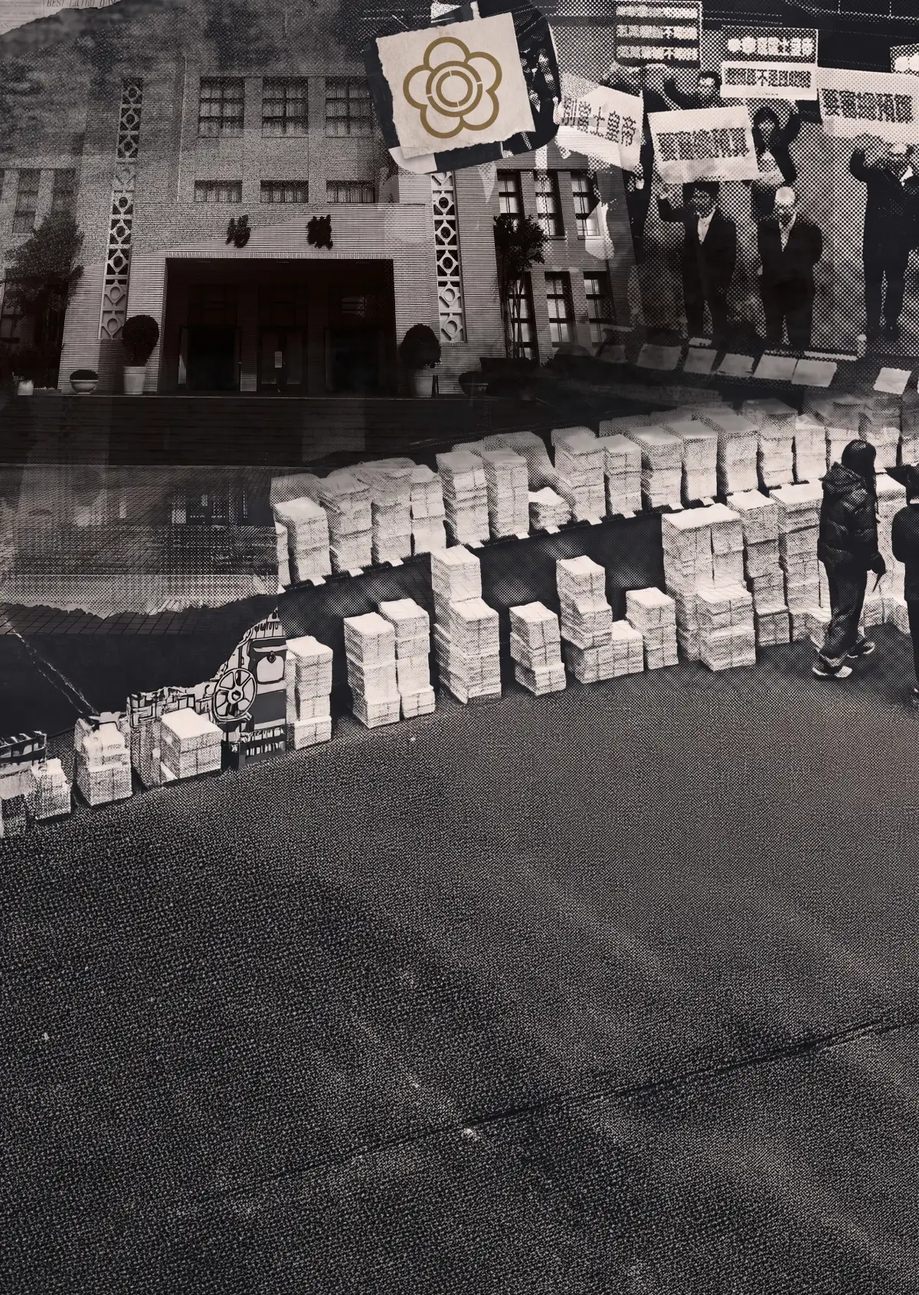
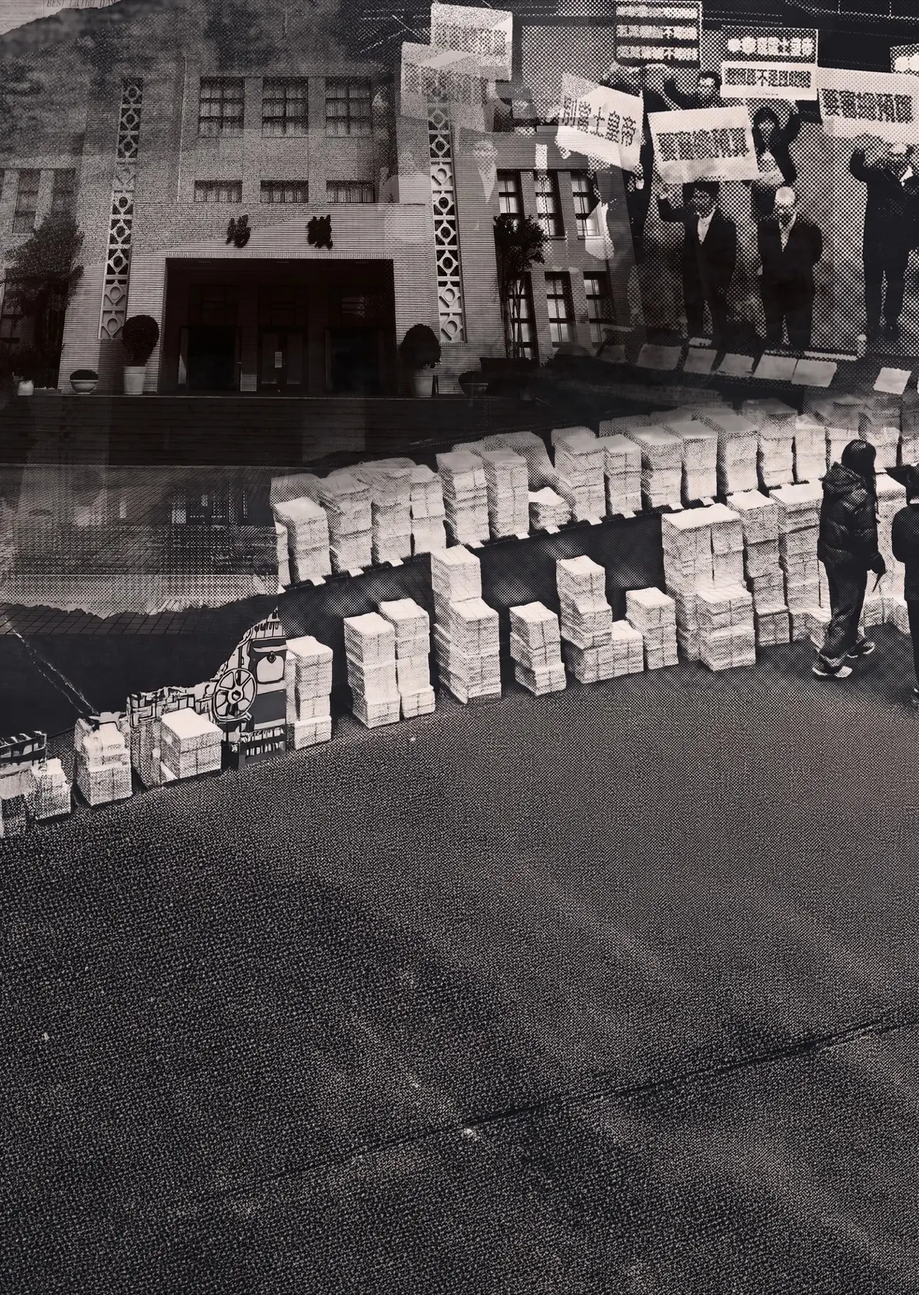
fix(index-v2): align chapter 3 mobile chart with its story cards
Chapter 3's scroll-linked bar chart ran a full step ahead of the text on
mobile, and the cards painted on top of the chart panel.

Root cause of the desync: updateChapter3Bars() measured
.gantt-card-rebuilt, but that wrapper carries padding-top of
(--site-header-h + 82dvh) to push its visible text into the reading zone
below the pinned band. The wrapper's top therefore sits ~82dvh above the
text the reader actually sees, so every step fired that much too early --
step 2 (red bar, 2992億) was showing while card 1 (3兆350億) was still
mid-screen. Mobile now measures the visible .story-card and triggers at
88dvh (band bottom 79dvh plus 9dvh of breathing room), so each card owns
exactly one chart step. The same measurement fix applies to card 5's exit
offset, which previously started pushing the chart away while card 5's
text was still below the fold.

Root cause of the overlap: percentage insets on a sticky element resolve
against the containing block, not the viewport. top:50% was copied from
chapter 2's fixed-position band (where 50% correctly means half a
viewport) onto chapter 3's sticky band, whose containing block is the
300svh+ section -- and sticky's top doubles as both the resting position
and the stick trigger, so both broke at once. Replaced with top:21dvh
((100dvh - 58dvh) / 2), which also removes the need for translateY(-50%);
without that lift the band never paints above its own flow position, so
[…]

diff --git a/115MoneyDemoB-main/index-v2.html b/115MoneyDemoB-main/index-v2.html
@@ -2664,8 +2664,26 @@
            的樣式。 */
         @media (max-width: 1024px) {
 
-            /* ---------- 第二章：甘特圖釘在頂部帶狀區（約 58dvh） ---------- */
+            /* ---------- 第二章：甘特圖釘在視窗垂直 50% 處 ----------
+               手機／平板改用與第三章 .gantt-sticky-box-rebuilt 相同的 position:sticky
+               機制（桌機版維持 position:fixed 的全螢幕背景疊層設計，此處不動）。
+               ⚠ 已改回 position:fixed（與桌機版一致）：改用 position:sticky 會讓瀏覽器
+               在章節捲動到底時「原生自動」把帶狀區跟著文件流一起滑走，這個原生滑走
+               動作跟 updateHistoryExit() 原本針對 fixed 元素設計、只靠 opacity 淡出的
+               收尾動畫同時發生、疊加在一起，導致第二章結尾感覺「收得太快」。第三章的
+               sticky 版本另外用 --ch3-exit-offset 這個 transform 專門馴服原生滑走時機，
+               第二章沒有這套機制，所以改回 fixed（原生完全沒有自動滑走行為）能讓收尾
+               動畫完全交回 updateHistoryExit() 掌控，與桌機版行為一致。
+               top:50%+translateY(-50%) 讓帶狀區的垂直中心卡在視窗中央，而非貼齊頂部。 */
             .gantt-fixed-stage-rebuilt {
+                position: fixed !important;
+                top: 50% !important;
+                /* -50% keeps it centered; --ch2-exit-offset (px, published by
+                   updateHistoryExit()) additionally slides it upward in sync with
+                   the naturally-scrolling final story card, so the photo band and
+                   the text exit the screen together instead of the band just
+                   fading in place while the text scrolls past it. */
+                transform: translateY(calc(-50% - var(--ch2-exit-offset, 0px))) !important;
                 height: 58dvh;
                 align-items: center;
                 background: var(--bg-deep);
@@ -2774,7 +2792,9 @@
                 align-items: center;
                 justify-content: center;
                 padding: 0 16px;
-                padding-top: calc(var(--site-header-h) + 60dvh);
+                /* Band is now centered at 50vh (roughly 21dvh–79dvh), not top-anchored
+                   (roughly 0–58dvh), so clearance below it moved from ~60dvh to ~82dvh. */
+                padding-top: calc(var(--site-header-h) + 82dvh);
                 box-sizing: border-box;
             }
 
@@ -2791,8 +2811,29 @@
                 max-width: 78vw !important;
             }
 
-            /* ---------- 第三章：堆疊長條圖釘在頂部帶狀區（約 58dvh） ---------- */
+            /* ---------- 第三章：堆疊長條圖釘在垂直置中的帶狀區 ----------
+               ⚠ 原本寫 top:50% + translateY(-50%)（照抄第二章 fixed 版的置中寫法），
+               但 sticky 與 fixed 的百分比解析基準根本不同：
+                 · fixed  → 百分比對「視窗」解析，50% 就是半個視窗高（第二章寫法正確）
+                 · sticky → 百分比對「containing block」解析，此處是 #chapter-3-rebuilt
+                            （開場白 + 5×100svh 卡片 + 結語，總高 300svh 以上），
+                            50% 因而變成 150svh 級別的失控數值。
+               而且 sticky 的 top 一值兩用 —— 同時是「貼住後的停駐位置」與「開始貼住的
+               觸發時機」，一個失控的 top 會同時破壞這兩件事，這正是圖表壓在
+               .chapter-intro 上的病根。
+               改用視窗單位直接寫死停駐位置：(100dvh − 58dvh) / 2 = 21dvh，帶狀區佔
+               21dvh~79dvh 垂直置中，因此也不再需要 translateY(-50%)。少了那個 -50%，
+               圖表在「尚未貼住」的階段就完全畫在自己的文件流位置上（不會往上偷跑半個
+               帶狀區高度去蓋住上方元素），開場白與圖表在結構上不可能再重疊。 */
+            #chapter-3-rebuilt .chapter-intro {
+                /* 純閱讀節奏用的留白：開場白讀完後留一段深色空白，圖表才由下方升起，
+                   讓「開場白獨佔」與「圖表釘住＋卡片輪替」兩段有清楚的段落感。
+                   重疊問題已由上方 top/transform 的修正在結構上根除，這裡不負責防撞。 */
+                margin-bottom: 18dvh;
+            }
+
             .gantt-sticky-box-rebuilt {
+                top: 21dvh !important;
                 height: 58dvh !important;
                 align-items: center !important;
                 background: var(--bg-deep) !important;
@@ -2800,6 +2841,9 @@
                 box-shadow: 0 8px 20px rgba(0, 0, 0, 0.35);
                 z-index: 5 !important;
             }
+
+            /* 垂直置中已改由 top:21dvh 負責，transform 交還給基底規則（見上方
+               #ch3-sticky-box-wrapper），單純表達退場位移 --ch3-exit-offset。 */
 
             .gantt-container-rebuilt {
                 /* 扣除外距寬度，避免與 margin 疊加溢出（同第二章甘特圖容器寫法） */
@@ -2818,7 +2862,12 @@
             .story-timeline-rebuilt {
                 margin-top: 0 !important;
                 align-items: center !important;
-                z-index: 7 !important;
+                /* ⚠ 原為 7（高於帶狀區的 5），文字卡因此是「疊在圖表上」往上飄，
+                   卡片捲到帶狀區高度時會直接壓住長條圖，正是實測截圖看到的錯位。
+                   桌機版刻意讓卡片浮在圖表上（基底 z-index:2 > 帶狀區 1），但手機版
+                   的設計是「帶狀區＝舞台、文字卡＝從下方經過的字幕」，兩者不該重疊。
+                   改為 1（低於帶狀區的 5），卡片讀完後乾淨地滑進帶狀區底下消失。 */
+                z-index: 1 !important;
             }
 
             .story-timeline-rebuilt .gantt-card-rebuilt {
@@ -2826,7 +2875,9 @@
                 align-items: center !important;
                 padding-right: 0 !important;
                 padding: 0 16px !important;
-                padding-top: calc(var(--site-header-h) + 60dvh) !important;
+                /* Band is now centered at 50vh (roughly 21dvh–79dvh), not top-anchored
+                   (roughly 0–58dvh), so clearance below it moved from ~60dvh to ~82dvh. */
+                padding-top: calc(var(--site-header-h) + 82dvh) !important;
                 box-sizing: border-box;
             }
 
@@ -2838,6 +2889,8 @@
                 background-blend-mode: multiply;
                 backdrop-filter: none;
                 max-width: 100%;
+                /* 桌機版 40px 內距在窄螢幕上吃掉太多可讀寬度，縮小為 24px/18px */
+                padding: 24px 18px;
             }
         }
 
@@ -3283,8 +3336,10 @@
             .hero-headline-panel {
                 display: flex;
                 flex-direction: column;
-                position: relative;
-                grid-row: 2;
+                position: absolute;
+                top: 50%;
+                left: 50%;
+                transform: translate(-50%, -50%);
                 width: min(92%, 680px);
                 margin: 0;
                 padding: 30px 28px 22px;
@@ -3307,9 +3362,10 @@
             }
 
             .scroll-indicator {
-                position: static;
-                grid-row: 3;
-                transform: none;
+                position: absolute;
+                bottom: 40px;
+                left: 50%;
+                transform: translateX(-50%);
                 animation: bounce-mobile 2.4s infinite;
                 color: var(--ui-ink-inverse);
                 font-size: var(--type-caption);
@@ -3359,6 +3415,8 @@
                 min-height: var(--scene-read-interval) !important;
             }
 
+            /* 平板僅需把退場位移夾在 12svh 以內（避免圖表在較高的視窗上被推得太遠），
+               置中已由 ≤1024 區塊的 top:21dvh 負責，故此處同步移除已失效的 -50%。 */
             #ch3-sticky-box-wrapper {
                 transform: translateY(calc(-1 * min(var(--ch3-exit-offset), 12svh))) !important;
             }
@@ -3392,41 +3450,13 @@
                 --type-chapter-heading: clamp(1.75rem, calc(1.68rem + 0.3vw), 1.875rem);
             }
 
-            /* Compact storytelling (chapter 2 only): visual stage becomes a bounded
-               block in the document flow; cards no longer reserve viewport-sized
-               reveal slots. Chapter 3's pinned/scroll-linked bar chart keeps the
-               same mechanism it uses at tablet widths (see the shared
-               @media (max-width: 1024px) card layout above) — it is NOT flattened
-               here, unlike chapter 2. */
-            #chapter-2-rebuilt {
-                min-height: auto !important;
-            }
-
-            .gantt-fixed-stage-rebuilt {
-                position: relative !important;
-                top: auto !important;
-                left: auto;
-                width: 100% !important;
-                height: var(--story-visual-stage-height);
-                opacity: 1;
-                visibility: visible;
-                transform: none !important;
-            }
-
-            .gantt-backdrop-box-rebuilt,
-            #chapter-2-rebuilt .gantt-chart-container-rebuilt {
-                transform: none !important;
-            }
-
+            /* Both chapter 2 and chapter 3 keep the pinned-band / scroll-linked-reveal
+               mechanism that already works at tablet widths (see the shared
+               @media (max-width: 1024px) rules above, e.g. .gantt-card-rebuilt's
+               documented min-height:100vh requirement) — neither is flattened here. */
             #chapter-2-rebuilt .gantt-scroll-content-rebuilt {
                 gap: 24px;
                 padding-block: 32px;
-            }
-
-            #chapter-2-rebuilt .gantt-card-rebuilt {
-                min-height: auto !important;
-                padding: 24px 16px !important;
-                transform: none !important;
             }
 
             .ch3-conclusion-footer-rebuilt {
@@ -4731,10 +4761,17 @@
                 const finalCardTop = finalStoryCard.getBoundingClientRect().top;
                 const chapter3Top = chapter3 ? chapter3.getBoundingClientRect().top : Infinity;
                 const reducedMotion = MQ_REDUCED.matches;
-                // 原本 0.55/0.35 讓文字在讀者還沒讀完就開始淡出；延後到 0.40/0.20，
-                // 給讀者多一段捲動距離維持全不透明，淡出區間寬度不變（都是 0.2）
-                const start = viewportHeight * 0.40;
-                const end = viewportHeight * 0.20;
+                const isMobileExit = MQ_MOBILE.matches;
+                // 桌機：原本 0.55/0.35 讓文字在讀者還沒讀完就開始淡出；延後到 0.40/0.20，
+                // 給讀者多一段捲動距離維持全不透明，淡出區間寬度不變（都是 0.2）。
+                // 手機：讀者反應結尾（最後一張字卡＋最後一張歷史照片對齊呈現）收得太快——
+                // 應該等兩者對齊、讀者看完，字卡本身自然捲到視窗頂端準備離開時，才開始
+                // 淡出。故手機版把起點延後到卡片頂端逼近視窗頂端（10%）才開始，終點延到
+                // 卡片頂端已捲出視窗上緣一小段（-15%）才算全淡出，且不再用「第三章頂部
+                // 一露出畫面底部」當強制淡出的門檻（那時第二章可能還佔滿大半螢幕），改成
+                // 「第三章頂端已經抵達視窗最頂端」（第二章已完全捲出）才強制收尾完成。
+                const start = viewportHeight * (isMobileExit ? 0.10 : 0.40);
+                const end = viewportHeight * (isMobileExit ? -0.15 : 0.20);
                 let progress = reducedMotion
                     ? (finalCardTop <= viewportHeight * 0.30 ? 1 : 0)
                     : Math.min(1, Math.max(0, (start - finalCardTop) / (start - end)));
@@ -4744,28 +4781,53 @@
                 if (!reducedMotion && finalCardTop <= end + 1) progress = 1;
 
                 // Chapter 3 entering from below is the hard exit boundary for large scroll jumps.
-                if (chapter3Top <= viewportHeight) progress = 1;
+                // Mobile waits until chapter 3's top has reached the very top of the viewport
+                // (chapter 2 has fully scrolled past) rather than the moment it merely peeks
+                // in from the bottom, so the card/photo pairing isn't cut short.
+                if (isMobileExit ? chapter3Top <= 0 : chapter3Top <= viewportHeight) progress = 1;
 
-                stage.style.setProperty('--history-exit-opacity', String(1 - progress));
                 stage.classList.toggle('history-exit-active', finalCardTop <= viewportHeight * 0.6);
                 stage.classList.toggle('history-exit-complete', progress >= 1);
 
                 // Chapter 3's intro reveals from the exact same completion state that
-                // already governs Chapter 2's exit fade, not a coarser stage-lifecycle signal.
+                // already governs Chapter 2's exit, not a coarser stage-lifecycle signal.
                 if (chapter3Intro) {
                     chapter3Intro.classList.toggle('chapter3-intro-revealed', stage.classList.contains('history-exit-complete'));
                 }
 
-                // Same exit guard, second target: the step-9 text story-card itself, not just
-                // the fixed image backdrop above. Only touch its inline opacity once actually
-                // exiting (progress > 0) so this never fights the card's own entrance reveal
-                // (armStep9CardReveal's `.history-image-settled` class) while still inside step 9.
-                if (progress > 0) {
-                    finalStoryCard.style.opacity = String(1 - progress);
-                    finalStoryCard.style.pointerEvents = progress >= 1 ? 'none' : 'auto';
-                } else {
+                if (isMobileExit) {
+                    // Reader asked for the photo band and the final text card to scroll
+                    // up and off the screen TOGETHER, not have the (fixed, otherwise
+                    // static) photo band merely dissolve in place while the text — which
+                    // already scrolls naturally — slides past it. So instead of fading
+                    // opacity, publish a translateY offset (--ch2-exit-offset, combined
+                    // with the -50% centering in CSS) that grows from 0 to however far the
+                    // band's own rest-position bottom edge sits from the viewport top
+                    // (vh/2 + height/2, since it's vertically centered) as `progress`
+                    // advances — that's the exact distance needed to fully clear the top
+                    // of the viewport, not just the band's own height.
+                    const stageHeight = stage.getBoundingClientRect().height;
+                    const restBottom = (viewportHeight / 2) + (stageHeight / 2);
+                    stage.style.setProperty('--ch2-exit-offset', (progress * restBottom) + 'px');
+                    stage.style.setProperty('--history-exit-opacity', '1');
                     finalStoryCard.style.removeProperty('opacity');
                     finalStoryCard.style.removeProperty('pointer-events');
+                } else {
+                    stage.style.setProperty('--ch2-exit-offset', '0px');
+                    stage.style.setProperty('--history-exit-opacity', String(1 - progress));
+
+                    // Same exit guard, second target: the step-9 text story-card itself, not
+                    // just the fixed image backdrop above. Only touch its inline opacity once
+                    // actually exiting (progress > 0) so this never fights the card's own
+                    // entrance reveal (armStep9CardReveal's `.history-image-settled` class)
+                    // while still inside step 9.
+                    if (progress > 0) {
+                        finalStoryCard.style.opacity = String(1 - progress);
+                        finalStoryCard.style.pointerEvents = progress >= 1 ? 'none' : 'auto';
+                    } else {
+                        finalStoryCard.style.removeProperty('opacity');
+                        finalStoryCard.style.removeProperty('pointer-events');
+                    }
                 }
             };
 
@@ -4923,16 +4985,26 @@
                 const containerTop = ch3Container.getBoundingClientRect().top;
                 const cards = ch3Section.querySelectorAll('.gantt-card-rebuilt');
 
-                // 桌機：卡片頂端越過圖表頂端下方 100px 即算數。
-                // 手機：圖表釘在上方帶狀區，卡片要「進入下方閱讀區」才算數，
-                //       否則步驟會在卡片還被帶狀區蓋住時就先觸發（動畫早於文字）。
+                // 桌機：卡片頂端越過圖表頂端下方 100px 即算數（外框與可見文字幾乎重合）。
+                // 手機：⚠ 外框 .gantt-card-rebuilt 帶有 padding-top: header + 82dvh，
+                //       用來把可見文字推到帶狀區下方的閱讀區；也就是說「外框頂端」比
+                //       「讀者真正看得見的文字」整整高出 82dvh。原本仍拿外框量測，
+                //       導致每一步都提早約 82dvh 觸發 —— 實測畫面：卡1 的文字還飄在
+                //       帶狀區上方時，圖表就已經跳到 step2（紅條＋2992億），圖文完全對不上。
+                //       故手機改量測真正看得見的 .story-card。
                 const isMobile = MQ_MOBILE.matches;
-                const triggerOffset = isMobile ? window.innerHeight * 0.6 : 100;
+                const measureTop = (card) => {
+                    if (!isMobile) return card.getBoundingClientRect().top;
+                    return (card.querySelector('.story-card') || card).getBoundingClientRect().top;
+                };
+                // 門檻 88dvh 的推導：帶狀區下緣在 79dvh（top:21dvh + height:58dvh），
+                // 再往下留 9dvh 呼吸 —— 即「這張卡剛從畫面底部進入閱讀區」的那一刻換步驟，
+                // 此後到下一張卡進場前它都是當前步驟，一卡一步完全對齊。
+                const triggerLine = isMobile ? window.innerHeight * 0.88 : containerTop + 100;
 
                 let currentStep = 1;
                 cards.forEach((card, idx) => {
-                    const cardTop = card.getBoundingClientRect().top;
-                    if (cardTop <= containerTop + triggerOffset) { currentStep = idx + 1; }
+                    if (measureTop(card) <= triggerLine) { currentStep = idx + 1; }
                 });
 
                 const finalLabel = document.getElementById('ch3-label-final');
@@ -4940,8 +5012,10 @@
                 ch3Section.classList.remove('ch3-step-1', 'ch3-step-2', 'ch3-step-3', 'ch3-step-4', 'ch3-step-5');
                 ch3Section.classList.add('ch3-step-' + Math.min(currentStep, 5));
 
-                // 🔥 【量測攔截點】
-                const cardFiveTop = cardFive.getBoundingClientRect().top;
+                // 🔥 【量測攔截點】同樣改用可見文字卡：拿外框量測會讓退場位移在卡5 的
+                //    文字都還沒進畫面（外框頂端已過圖表頂端，文字卻還在 103dvh 之下）
+                //    時就開始把圖表往上推，圖表等於在讀者看到最後一段文字前先跑掉。
+                const cardFiveTop = measureTop(cardFive);
 
                 // CSS resolves the transform. JavaScript publishes only a bounded
                 // progress length so layout ownership stays in the stylesheet.
